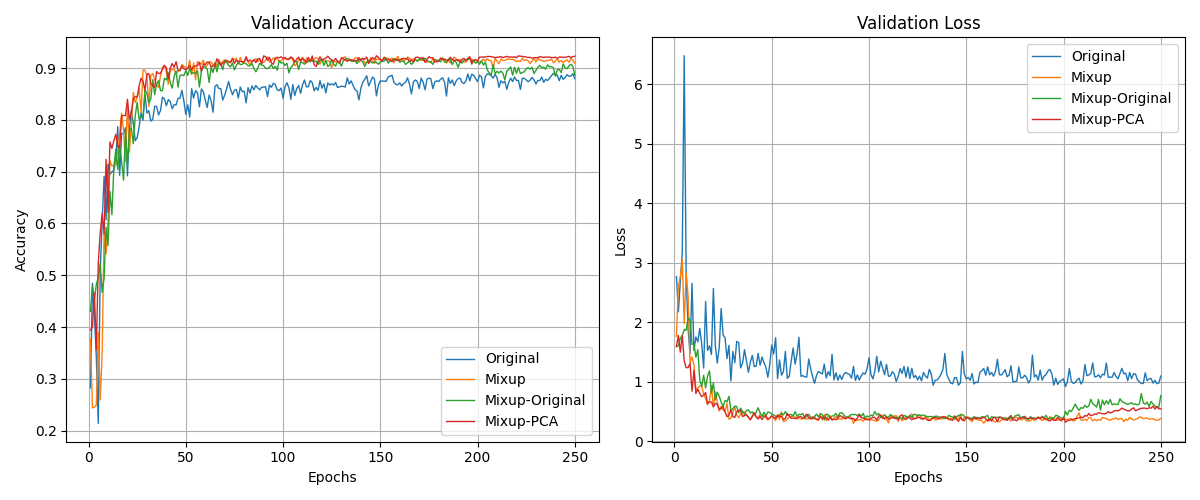
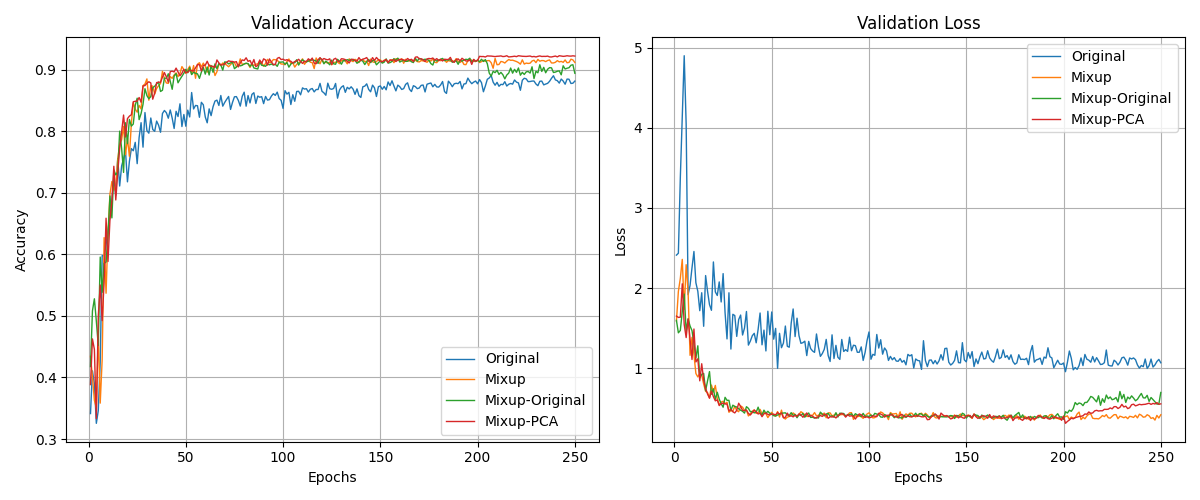
experiments & conclude for meeting

diff --git a/src/models/wide_resnet.py b/src/models/wide_resnet.py
@@ -82,10 +82,15 @@ class Wide_ResNet(nn.Module):
             out = F.avg_pool2d(out, 8)
             # out = F.avg_pool2d(out, out.size()[2])
             out = out.view(out.size(0), -1)
+            
             if aug_ok:
                 features = out
-                augmented_data = local_pca_perturbation(features, device, k)
+                if augment == "Mixup-Original&PCA":
+                    augmented_data = local_pca_perturbation(features, device, k, perturb_prob=0.5)
+                else:
+                    augmented_data = local_pca_perturbation(features, device, k, perturb_prob=1.0)
                 out = self.linear(augmented_data)
+                
             else:
                 out = self.linear(out)
 
@@ -131,7 +136,7 @@ class Wide_ResNet(nn.Module):
             return out, y_a, y_b, lam
 
 
-def local_pca_perturbation(data, device, k=10, alpha=1.0):
+def local_pca_perturbation(data, device, k=10, alpha=1.0, perturb_prob=1.0):
     """
     局所PCAに基づく摂動をデータに加える（近傍の散らばり内に収める）
     :param data: (N, D) 次元のテンソル (N: サンプル数, D: 特徴次元)
@@ -151,27 +156,29 @@ def local_pca_perturbation(data, device, k=10, alpha=1.0):
     perturbed_data = np.copy(data_np)
 
     for i in range(N):
-        neighbors = data_np[indices[i]]
-        pca = PCA(n_components=min(D, k))
-        pca.fit(neighbors)
-        components = pca.components_           # shape: (n_components, D)
-        variances = pca.explained_variance_    # shape: (n_components,)
+        if random.random() < perturb_prob
+            neighbors = data_np[indices[i]]
+            pca = PCA(n_components=min(D, k))
+            pca.fit(neighbors)
+            components = pca.components_           # shape: (n_components, D)
+            variances = pca.explained_variance_    # shape: (n_components,)
 
-        # ノイズベクトル（各主成分方向に沿った合成）
-        noise = np.zeros(D)
-        for j in range(len(components)):
-                noise += np.random.randn() * np.sqrt(variances[j]) * components[j]
+            # ノイズベクトル（各主成分方向に沿った合成）
+            noise = np.zeros(D)
+            for j in range(len(components)):
+                    noise += np.random.randn() * np.sqrt(variances[j]) * components[j]
 
-        # ノイズの方向はそのまま、長さをスケールする
-        if np.linalg.norm(noise) > 0:
-            noise = noise / np.linalg.norm(noise)
+            # ノイズの方向はそのまま、長さをスケールする
+            if np.linalg.norm(noise) > 0:
+                noise = noise / np.linalg.norm(noise)
 
-        # 局所の最大主成分の標準偏差に比例したスケール
-        max_std = np.sqrt(variances[0])  # 最大分散方向
-        scaled_noise = alpha * max_std * noise
-
-        scaled_noise = alpha * noise
-
-        perturbed_data[i] += scaled_noise
+            # 局所の最大主成分の標準偏差に比例したスケール
+            max_std = np.sqrt(variances[0])  # 最大分散方向
+            scaled_noise = alpha * max_std * noise
+            scaled_noise = alpha * noise
+            perturbed_data[i] += scaled_noise
+        
+        else:
+            pass
 
     return torch.tensor(perturbed_data, dtype=torch.float32).to(device)

diff --git a/train.py b/train.py
@@ -80,6 +80,7 @@ def main():
             # "Mixup",
             # "Mixup-Original",
             # "Mixup-PCA",
+            # "Mixup-Original&PCA",
             
             # "Manifold-Mixup",
             # "PCA",
@@ -166,6 +167,15 @@ def train(model, train_loader, criterion, optimizer, device, augment, aug_ok, ep
                 loss  = criterion(preds, labels)
 
         elif augment == "Mixup-PCA":
+            if epochs < 200:
+                images, y_a, y_b, lam = mixup_data(images, labels, 1.0, device)
+                preds = model(images, labels, device, augment, aug_ok)
+                loss = mixup_criterion(criterion, preds, y_a, y_b, lam)
+            else:
+                preds = model(images, labels, device, augment, aug_ok=True)
+                loss  = criterion(preds, labels)
+        
+        elif augment == "Mixup-Original&PCA":
             if epochs < 200:
                 images, y_a, y_b, lam = mixup_data(images, labels, 1.0, device)
                 preds = model(images, labels, device, augment, aug_ok)

diff --git a/result.py b/result.py
@@ -4,8 +4,8 @@ import numpy as np
 import matplotlib.pyplot as plt
 
 def main():
-    iteration     = 1
-    data_type     = "cifar10"
+    iteration     = 3
+    data_type     = "cifar100"
     epochs        = 250
     model_type    = "wide_resnet_28_10"
     augmentations = ["Original", "Mixup", "Mixup-Original", "Mixup-PCA"]

diff --git a/train2.py b/train2.py
@@ -80,6 +80,7 @@ def main():
             "Mixup",
             # "Mixup-Original",
             # "Mixup-PCA",
+            # "Mixup-Original&PCA",
             
             # "Manifold-Mixup",
             # "PCA",

diff --git a/train3.py b/train3.py
@@ -80,6 +80,7 @@ def main():
             # "Mixup",
             "Mixup-Original",
             # "Mixup-PCA",
+            # "Mixup-Original&PCA",
             
             # "Manifold-Mixup",
             # "PCA",

diff --git a/train4.py b/train4.py
@@ -80,6 +80,7 @@ def main():
             # "Mixup",
             # "Mixup-Original",
             "Mixup-PCA",
+            # "Mixup-Original&PCA",
             
             # "Manifold-Mixup",
             # "PCA",
